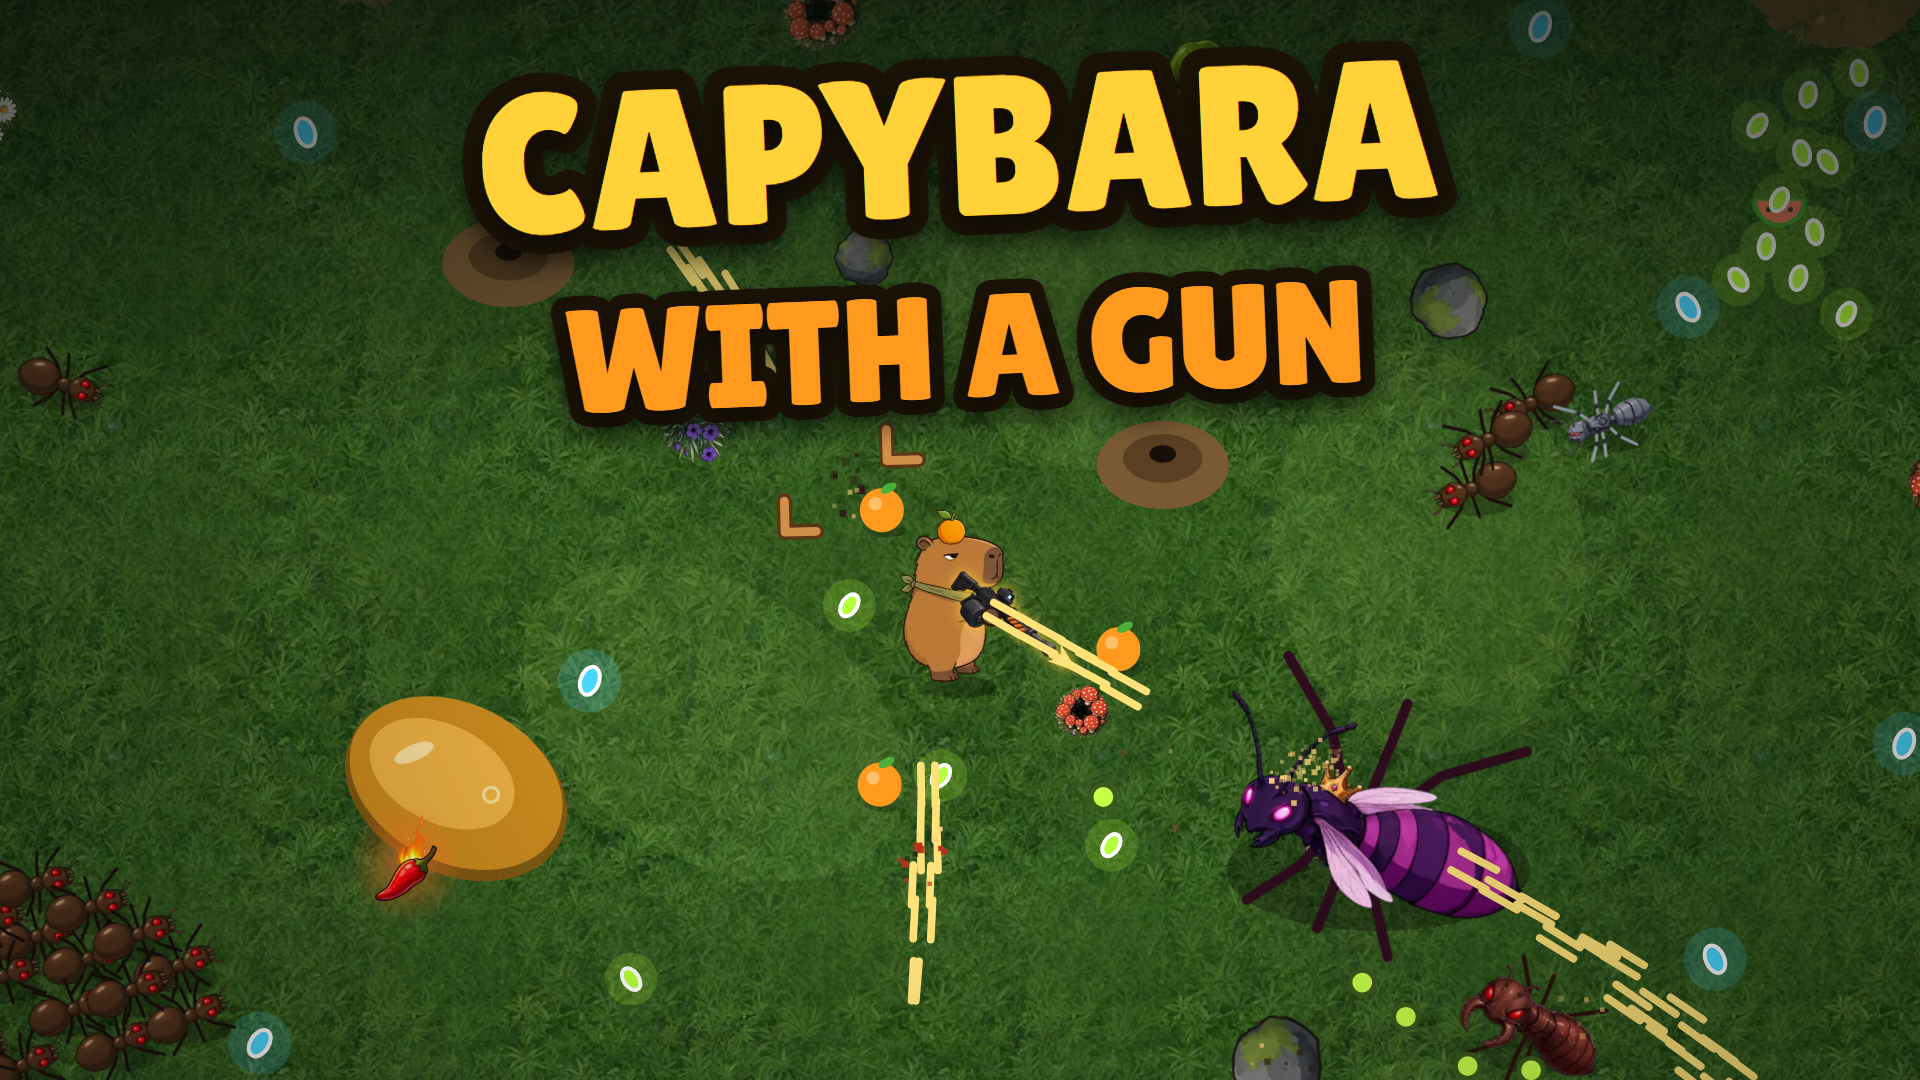
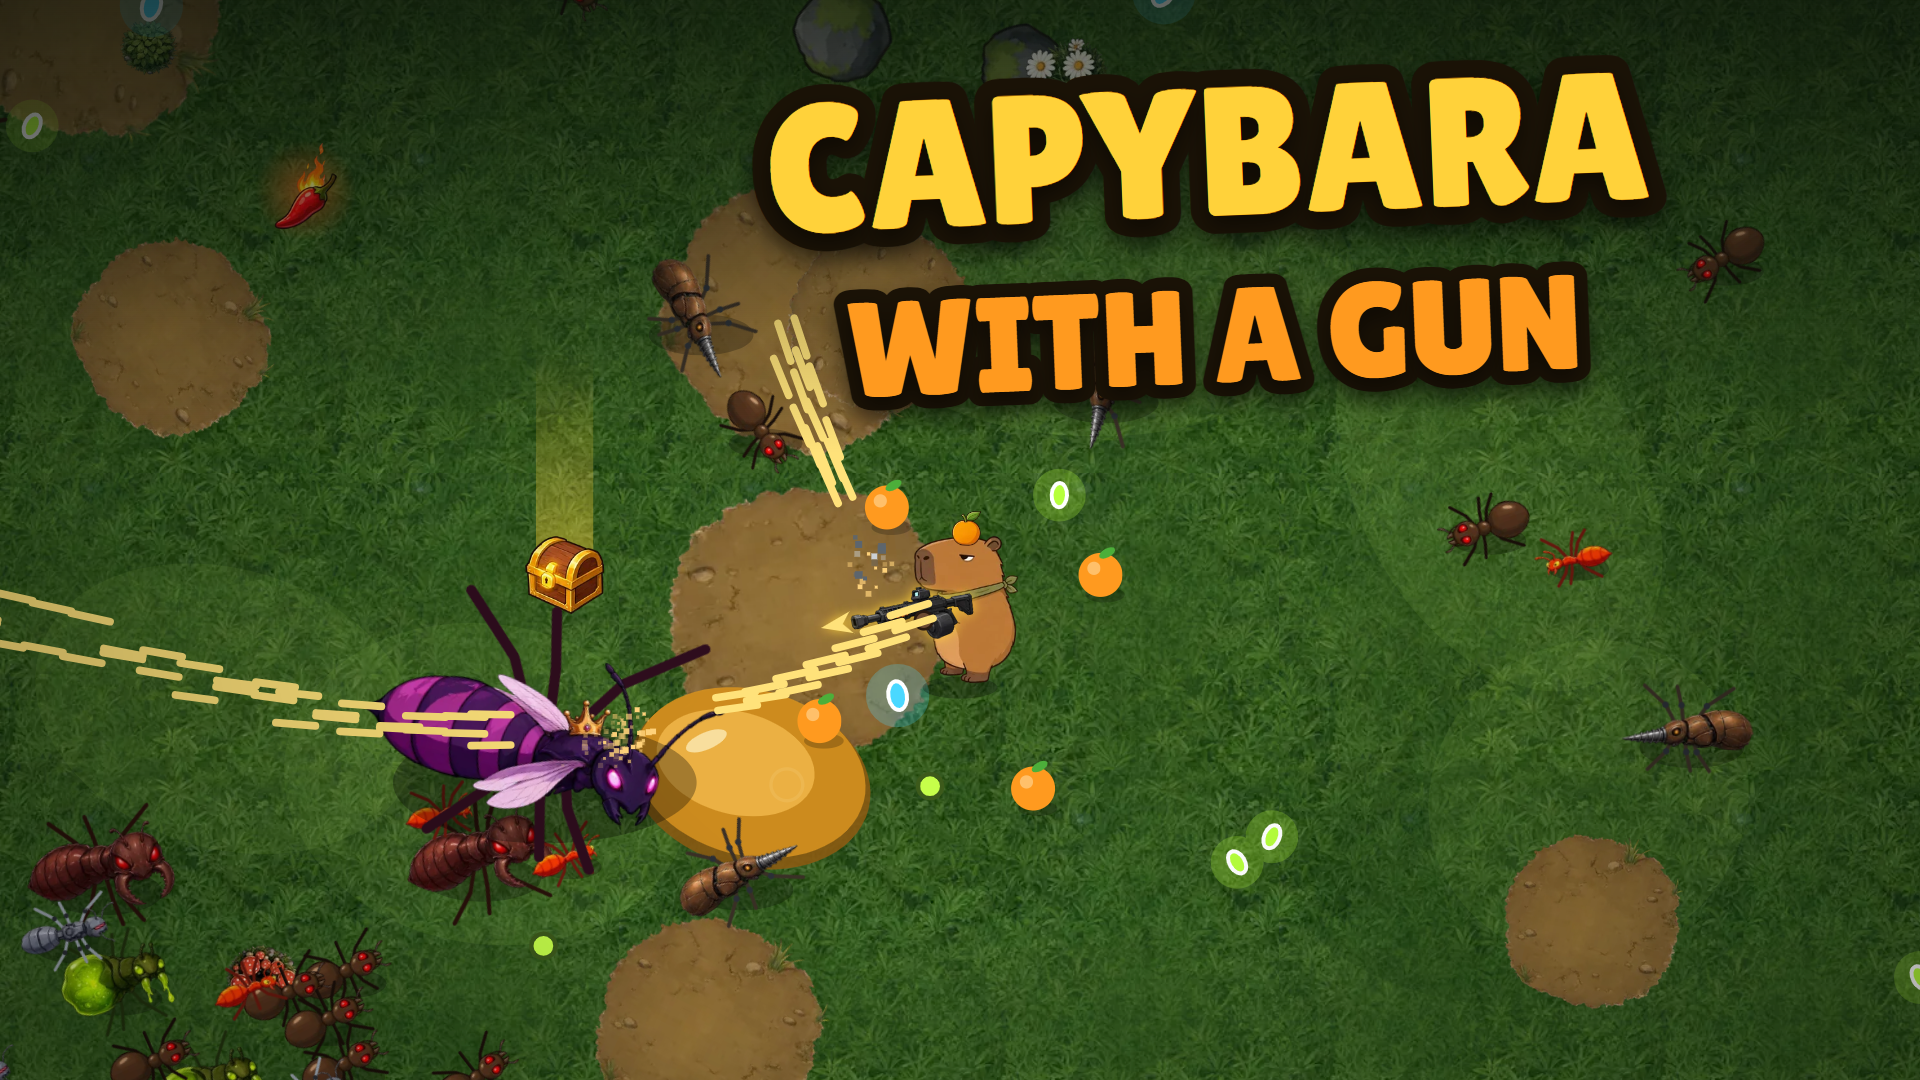
CrazyGames covers: keep the title clear of the label zone
CrazyGames shows badges in a top-left zone on each cover; the title now sits
to the right of it (landscape, square) or below it (portrait). Covers re-rendered
and the preview videos re-made so their opening frame matches.

diff --git a/platform/crazygames/covers/covers.js b/platform/crazygames/covers/covers.js
@@ -50,7 +50,10 @@ window.COVERS = (() => {
     c.fillStyle = fill; c.fillText(txt, x, y);
   }
   // the title as it sits on the covers; the videos open on it so they match the static cover
-  const LAYOUT = { landscape: { w: 0.5, y: 0.2, shade: 0.42 }, portrait: { w: 0.84, y: 0.15, shade: 0.34 }, square: { w: 0.78, y: 0.19, shade: 0.42 } };
+  // CrazyGames puts badges ("Hot", "Updated") in a label zone at the top-left of each cover, roughly
+  // 36% x 20% (landscape), 40% x 10% (portrait) and 35% x 30% (square), so the title keeps clear of it:
+  // shifted right on the landscape and square covers, lower on the portrait one. x = title centre.
+  const LAYOUT = { landscape: { w: 0.46, x: 0.63, y: 0.2, shade: 0.42 }, portrait: { w: 0.8, x: 0.5, y: 0.235, shade: 0.44 }, square: { w: 0.54, x: 0.68, y: 0.2, shade: 0.42 } };
   LAYOUT.vlandscape = LAYOUT.landscape; LAYOUT.vportrait = LAYOUT.portrait;
   function title(c = COMP_CTX, OW = comp.width, OH = comp.height, shape = SHAPE, alpha = 1) {
     const L = LAYOUT[shape]; c.save(); c.globalAlpha = alpha;
@@ -60,7 +63,7 @@ window.COVERS = (() => {
     c.fillStyle = g; c.fillRect(0, 0, OW, OH * L.shade);
     c.font = `100px ${FONT}`; const size = Math.round(100 * OW * L.w / c.measureText('CAPYBARA').width);
     c.save(); c.textAlign = 'center'; c.textBaseline = 'alphabetic';
-    c.translate(OW / 2, OH * L.y); c.rotate(-0.04);
+    c.translate(OW * L.x, OH * L.y); c.rotate(-0.04);
     c.shadowColor = 'rgba(0,0,0,0.45)'; c.shadowBlur = size * 0.12; c.shadowOffsetY = size * 0.06;
     outlined(c, 'CAPYBARA', 0, 0, size, '#ffd23a');
     outlined(c, 'WITH A GUN', 0, size * 0.92, Math.round(size * 0.74), '#ff9a1f');

diff --git a/platform/crazygames/store/STORE-TEXT.md b/platform/crazygames/store/STORE-TEXT.md
@@ -73,9 +73,9 @@ Landscape and portrait both work. The layout fits the screen it's given.
 | `cover-portrait-800x1200.png` | 800×1200 (2:3) |
 | `cover-square-800x800.png` | 800×800 (1:1) |
 
-These are real gameplay frames, rendered by the covers tool in `../covers/`. The only text on them is the title, as CrazyGames requires. The game's art was made with Pixa. CrazyGames publishes no AI-art policy, but say so if they ask.
+These are real gameplay frames, rendered by the covers tool in `../covers/`. The title keeps clear of the top-left label zone, where CrazyGames puts its badges. The only text on them is the title, as CrazyGames requires. The game's art was made with Pixa. CrazyGames publishes no AI-art policy, but say so if they ask.
 
 
 ## Gameplay videos
 
-`preview-landscape-1920x1080.mp4` and `preview-portrait-1080x1620.mp4`: 19 s each, 30 fps, H.264, no audio track, about 28 MB each, so under the 50 MB limit. Both are real-time gameplay (no fast-forward) and open on the cover title, which fades out within the first second. They show the swarm, an airstrike, and a fight with the Queen. Boss entrances and deaths are letterboxed cut-scenes, so they're cut out, because CrazyGames rejects black bars. The videos aren't committed (too big for git). Re-make them with `VIDEO.record()` (see `../covers/video.js`) and `../covers/encode.mjs`.
+`preview-landscape-1920x1080.mp4` and `preview-portrait-1080x1620.mp4`: 19 s each, 30 fps, H.264, no audio track, about 25–27 MB each, so under the 50 MB limit. Both are real-time gameplay (no fast-forward) and open on the cover title, which fades out within the first second. They show the swarm, an airstrike, and a fight with the Queen. Boss entrances and deaths are letterboxed cut-scenes, so they're cut out, because CrazyGames rejects black bars. The videos aren't committed (too big for git). Re-make them with `VIDEO.record()` (see `../covers/video.js`) and `../covers/encode.mjs`.
